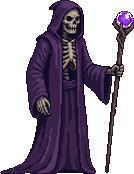
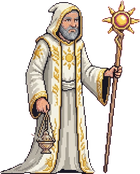
Priest replaces lich, calmer background music, towers and foundations recolored to castle stone
Claude-Session: https://claude.ai/code/session_01QcHRMwbfbXYPMxzwXNUobZ

diff --git a/src/audio.js b/src/audio.js
@@ -147,12 +147,12 @@ function flute(freq, dur, o = {}) {
   const t = at(o.when), vol = o.vol ?? 0.12;
   const osc = ac.createOscillator(), osc2 = ac.createOscillator(), g = ac.createGain(), g2 = ac.createGain();
   osc.type = 'sine'; osc.frequency.value = freq;
-  osc2.type = 'triangle'; osc2.frequency.value = freq * 2; g2.gain.value = 0.12;
+  osc2.type = 'sine'; osc2.frequency.value = freq * 2; g2.gain.value = 0.05;
   vibrato(osc, 9); vibrato(osc2, 9);
   env(g, t, vol, 0.07, dur, Math.min(0.25, dur * 0.4));
   osc.connect(g); osc2.connect(g2); g2.connect(g); g.connect(o.bus || sfxBus);
   osc.start(t); osc2.start(t); osc.stop(t + dur + 0.05); osc2.stop(t + dur + 0.05);
-  noise(Math.min(dur, 0.35), { freq: freq * 2, q: 6, vol: vol * 0.25, attack: 0.03, when: o.when, bus: o.bus || sfxBus });
+  noise(Math.min(dur, 0.35), { freq: freq * 2, q: 6, vol: vol * 0.12, attack: 0.03, when: o.when, bus: o.bus || sfxBus });
 }
 
 // медный рог: фильтр раскрывается на атаке, как у живого духового
@@ -210,7 +210,7 @@ const SFX = {
     noise(0.35, { filter: 'lowpass', freq: 420, vol: 0.45 });
     noise(0.06, { freq: 2600, q: 2, vol: 0.12, when: 0.01 });
   },
-  // тёмная магия лича: гул, вихрь и холодный отзвук
+  // луч жреца: гул, вихрь и отзвук
   zap() {
     for (const f of [110, 116.5]) thump(f * 1.5, f, 0.38, 0.08);
     noise(0.34, { freq: 380, to: 2600, q: 5, vol: 0.12, attack: 0.04 });
@@ -305,8 +305,9 @@ export function sfx(name) {
 }
 
 // ---------- фоновая музыка ----------
-// Ре минор, размер 3/4: арфа перебирает аккорды, струнные держат гармонию, флейта ведёт мелодию.
-// Во время волны вступают барабаны и рог, на боссе — тяжёлая дробь и низкие струнные.
+// Спокойная тема в ре миноре, 4/4, медленно: низкие струнные держат аккорд, арфа роняет пару нот за такт,
+// мягкая флейта в низком регистре изредка ведёт мелодию. Без высоких нот и частого перебора.
+// Во время волны добавляется только приглушённый барабан, на боссе он тяжелее, а струнные ниже.
 // mood: 'calm' | 'battle' | 'boss' | 'off'
 let mood = 'calm';
 export function setMusicMood(m) { mood = m; }
@@ -321,68 +322,51 @@ const BARS = [ // бас, аккорд
   [41, [41, 45, 48]], // F
   [33, [45, 49, 52]], // A
 ];
-// мелодия флейты: [восьмая в такте, нота, длина в восьмых]
+// мелодия флейты: [четверть в такте, нота, длина в четвертях] — по 1–2 долгие ноты на такт
 const MELODY = [
-  [[0, 74, 3], [3, 77, 2], [5, 76, 1]],
-  [[0, 72, 3], [3, 76, 2], [5, 74, 1]],
-  [[0, 70, 2], [2, 74, 2], [4, 77, 2]],
-  [[0, 76, 4], [4, 73, 2]],
-  [[0, 74, 2], [2, 77, 2], [4, 81, 2]],
-  [[0, 79, 3], [3, 77, 2], [5, 74, 1]],
-  [[0, 72, 2], [2, 77, 2], [4, 76, 2]],
-  [[0, 76, 2], [2, 73, 2], [4, 69, 2]],
+  [[0, 62, 2], [2, 65, 2]],
+  [[0, 64, 3], [3, 62, 1]],
+  [[0, 62, 2], [2, 58, 2]],
+  [[0, 61, 4]],
+  [[0, 65, 2], [2, 69, 2]],
+  [[0, 67, 3], [3, 65, 1]],
+  [[0, 64, 2], [2, 60, 2]],
+  [[0, 61, 2], [2, 57, 2]],
 ];
-const ARP = [0, 1, 2, 3, 2, 1];
-const STEP = 60 / 92 / 2; // восьмые при 92 ударах в минуту
+const BEAT = 60 / 66; // четверти при 66 ударах в минуту
 let nextTime = 0, step = 0;
 
 function startMusic() {
   nextTime = ac.currentTime + 0.3;
   setInterval(() => {
     if (ac.state !== 'running') { nextTime = ac.currentTime + 0.1; return; }
-    while (nextTime < ac.currentTime + 0.3) { scheduleStep(step, nextTime); nextTime += STEP; step++; }
-  }, 60);
+    while (nextTime < ac.currentTime + 0.4) { scheduleStep(step, nextTime); nextTime += BEAT; step++; }
+  }, 80);
 }
 
 function scheduleStep(n, t) {
   if (mood === 'off' || muted) return;
-  const when = t - ac.currentTime;
-  const barN = Math.floor(n / 6), s = n % 6, loop = Math.floor(barN / BARS.length);
+  const when = t - ac.currentTime, bus = musicBus;
+  const barN = Math.floor(n / 4), s = n % 4, loop = Math.floor(barN / BARS.length);
   const bar = barN % BARS.length;
   const [bass, chord] = BARS[bar];
-  const bus = musicBus, fight = mood !== 'calm', boss = mood === 'boss';
-  const barLen = STEP * 6;
+  const fight = mood !== 'calm', boss = mood === 'boss';
 
   if (s === 0) {
-    // струнные держат аккорд весь такт; на боссе — на октаву ниже и темнее
     const sh = boss ? -12 : 0;
-    strings(chord.map(m => midi(m + sh)), barLen + 0.5, { vol: boss ? 0.07 : 0.055, attack: 0.5, release: 0.6, when, bus, lp: boss ? 800 : 1200 });
-    pluck(midi(bass), { dur: 2.2, vol: 0.45, soft: 0.6, lp: 900, when, bus });
+    strings(chord.map(m => midi(m + sh)), BEAT * 4 + 0.8, { vol: 0.05, attack: 1.2, release: 1, when, bus, lp: boss ? 600 : 800 });
+    pluck(midi(bass), { dur: 3, vol: 0.32, soft: 0.75, lp: 600, when, bus });
   }
-  // арфа
-  const tones = [chord[0] + 12, chord[1] + 12, chord[2] + 12, chord[0] + 24];
-  pluck(midi(tones[ARP[s]]), { dur: 1.8, vol: s === 0 ? 0.22 : 0.15, when, bus });
-  if (fight && s === 3) pluck(midi(bass + 12), { dur: 1, vol: 0.25, soft: 0.6, lp: 1200, when, bus });
+  // арфа: две тихие ноты за такт, средний регистр
+  if (s === 0) pluck(midi(chord[0] + 12), { dur: 2.5, vol: 0.1, soft: 0.7, lp: 1800, when, bus });
+  if (s === 2) pluck(midi(chord[2]), { dur: 2.5, vol: 0.09, soft: 0.7, lp: 1800, when, bus });
 
-  // мелодия: в покое — через круг, в бою — каждый круг
-  if (fight || loop % 2 === 1) {
-    for (const [st, m, len] of MELODY[bar]) if (st === s) flute(midi(m), len * STEP * 0.95, { vol: 0.1, when, bus });
+  // мелодия звучит через круг, чтобы не надоедала
+  if (loop % 2 === 1) {
+    for (const [st, m, len] of MELODY[bar]) if (st === s) flute(midi(m), len * BEAT * 0.95, { vol: 0.06, when, bus });
   }
 
-  // барабаны
-  if (!fight) { if (s === 0) drum(0.18, { when, bus }); }
-  else if (!boss) {
-    if (s === 0) drum(0.42, { when, bus });
-    if (s === 3) drum(0.3, { when, bus });
-    if (s === 4 || s === 5) drum(0.16, { when, bus, pitch: 1.3 });
-  } else {
-    if (s === 0) drum(0.6, { when, bus, pitch: 0.75 });
-    if (s === 2 || s === 3) drum(0.36, { when, bus, pitch: 0.85 });
-    if (s === 4 || s === 5) drum(0.24, { when, bus, pitch: 1.2 });
-  }
-  // военный рог в конце каждой фразы
-  if (fight && s === 0 && (bar === 3 || bar === 7)) {
-    horn(midi(bass + 12), barLen * 0.9, { vol: boss ? 0.09 : 0.07, when, bus, bright: boss ? 900 : 1300 });
-    horn(midi(bass + 19), barLen * 0.9, { vol: 0.05, when, bus, bright: 1300 });
-  }
+  // приглушённый барабан только в бою
+  if (fight && s === 0) drum(boss ? 0.32 : 0.2, { when, bus, pitch: boss ? 0.7 : 0.85 });
+  if (boss && s === 2) drum(0.18, { when, bus, pitch: 0.75 });
 }

diff --git a/src/game.js b/src/game.js
@@ -206,7 +206,7 @@ export class Game {
     if (show) {
       e.flash = 0.08;
       if (amt >= 1) this.fx.number(e.x + (Math.random() * 6 - 3), this.aimY(e) - e.h * 0.6, amt,
-        type === 'fire' ? '#f3c843' : type === 'magic' ? '#d6a4ff' : '#ffffff');
+        type === 'fire' ? '#f3c843' : type === 'magic' ? '#ffe08a' : '#ffffff');
     }
     if (e.hp <= 0) {
       e.alive = false;
@@ -266,7 +266,8 @@ export class Game {
       this.projectiles.push({ kind: 'rock', sx: ox, sy: oy - 4, tx: lead.x, ty: lead.y - 3, t: 0, dur: 0.6, dmg: s.dmg, splash: s.splash, stun: s.stun });
     } else if (t.unit === 'lich') {
       this.sfx('zap');
-      this.fx.beam(t.x + t.face * 6, t.y - TOWER_TOP - 25, target.x, ty);
+      const ps = size('lich'); // луч света бьёт из сферы на навершии посоха
+      this.fx.beam(t.x + t.face * ps.w * 0.375, t.y - TOWER_TOP - ps.h * 0.9, target.x, ty);
       this.damage(target, s.dmg, 'magic');
       target.dotT = s.dot; target.dotDps = s.dps;
       target.slowT = s.slowTime; target.slowK = s.slow;
@@ -402,12 +403,12 @@ export class Game {
       ctx.fillStyle = '#8a8478'; ctx.beginPath(); ctx.arc(rx, by, 3.4, 0, Math.PI * 2); ctx.fill();
       ctx.fillStyle = '#b0aa9c'; ctx.fillRect(rx - 2, by - 2, 2, 1.5);
     }
-    if (t.unit === 'lich') { // свечение навершия посоха
+    if (t.unit === 'lich') { // свечение солнечной сферы на посохе жреца
       const glow = 0.35 + 0.25 * Math.sin(this.time * 4 + t.i) + atk * 0.6;
       ctx.save(); ctx.globalCompositeOperation = 'lighter'; ctx.globalAlpha = Math.min(1, glow);
-      const gx = t.x + t.face * w * 0.33, gy = ry - h * 0.95;
+      const gx = t.x + t.face * w * 0.375, gy = ry - h * 0.9;
       const g = ctx.createRadialGradient(gx, gy, 0, gx, gy, 3 + atk * 4);
-      g.addColorStop(0, 'rgba(236,214,255,1)'); g.addColorStop(1, 'rgba(160,90,230,0)');
+      g.addColorStop(0, 'rgba(255,246,208,1)'); g.addColorStop(1, 'rgba(255,190,60,0)');
       ctx.fillStyle = g; ctx.beginPath(); ctx.arc(gx, gy, 3 + atk * 4, 0, Math.PI * 2); ctx.fill();
       ctx.restore();
     }
@@ -430,7 +431,7 @@ export class Game {
     const { w, h } = drawRig(ctx, e.type, e.x, e.y + 2 - lift, o, rig.parts);
     const top = e.y + 2 - lift - h + (o.dy || 0);
     if (e.slowT > 0 || this.slowT > 0) { ctx.fillStyle = 'rgba(127,214,255,0.9)'; ctx.fillRect(e.x - w / 2, e.y, w, 1); }
-    if (e.dotT > 0 && Math.random() < 0.15) this.fx.parts.push({ x: e.x + Math.random() * 8 - 4, y: top + h * 0.3, vx: 0, vy: -12, life: 0.4, max: 0.4, c: '#c58cff', g: 0, s: 1 });
+    if (e.dotT > 0 && Math.random() < 0.15) this.fx.parts.push({ x: e.x + Math.random() * 8 - 4, y: top + h * 0.3, vx: 0, vy: -12, life: 0.4, max: 0.4, c: '#ffd86a', g: 0, s: 1 });
     if (e.stunT > 0) { const a = this.time * 8; ctx.fillStyle = '#f3c843'; ctx.fillRect(e.x + Math.cos(a) * 5, top - 2, 1.5, 1.5); ctx.fillRect(e.x - Math.cos(a) * 5, top - 2, 1.5, 1.5); }
     if (e.hp < e.max || e.def.boss) {
       const bw = e.def.boss ? 26 : 13, bx = Math.round(e.x - bw / 2), by = Math.round(top - 4);

diff --git a/src/anim.js b/src/anim.js
@@ -50,10 +50,10 @@ export function unitRig(unit, t, atk, windup, seed) {
         { r: [0, 0.6, 1, 1] },
         { r: [0, 0, 1, 0.65], dy: breath * 0.45 },
       ] };
-    case 'lich':
-      return { o: { dy: -2 - Math.sin(t * 2 + seed) * 1.4 }, parts: [
-        { r: [0, 0.74, 1, 1], dx: Math.sin(t * 3 + seed) * 0.7 }, // край мантии колышется
-        { r: [0, 0, 1, 0.78], dy: breath * 0.3 },
+    case 'lich': // жрец стоит на площадке и спокойно дышит
+      return { o: {}, parts: [
+        { r: [0, 0.6, 1, 1] },
+        { r: [0, 0, 1, 0.62], dy: breath * 0.3 },
       ] };
     case 'dragon': {
       const flap = 0.5 + 0.5 * Math.sin(t * 5 + seed);

diff --git a/src/fx.js b/src/fx.js
@@ -75,10 +75,10 @@ export class FX {
     for (const b of this.beams) {
       const a = b.life / 0.18;
       ctx.globalAlpha = a;
-      line(ctx, b.x1, b.y1, b.x2, b.y2, '#4a2270', 3);
-      line(ctx, b.x1, b.y1, b.x2, b.y2, '#c58cff', 1);
+      line(ctx, b.x1, b.y1, b.x2, b.y2, '#8a5a12', 3);
+      line(ctx, b.x1, b.y1, b.x2, b.y2, '#ffe08a', 1);
       ctx.globalAlpha = 1;
-      ctx.fillStyle = '#ecd6ff'; ctx.fillRect(Math.round(b.x2) - 1, Math.round(b.y2) - 1, 3, 3);
+      ctx.fillStyle = '#fff6d0'; ctx.fillRect(Math.round(b.x2) - 1, Math.round(b.y2) - 1, 3, 3);
     }
     for (const p of this.parts) {
       if (p.fire) continue;

diff --git a/src/config.js b/src/config.js
@@ -38,7 +38,7 @@ export const UNITS = {
     ],
   },
   lich: {
-    name: 'Лич', desc: 'Тёмный луч: порча и замедление',
+    name: 'Жрец', desc: 'Луч света: жжёт и замедляет',
     cost: 80, type: 'magic', proj: 'beam', air: true,
     dot: 3, slow: 0.55, slowTime: 1.6,
     levels: [

diff --git a/CLAUDE.md b/CLAUDE.md
@@ -4,7 +4,7 @@
 
 ## Что это
 Демо на ~2 минуты: каменные башни стоят на 7 местах вдоль дороги, игрок сажает на них защитников
-(лучник, циклоп, лич, дракон). 6 волн врагов, в каждой один вид, идут колонной:
+(лучник, циклоп, жрец, дракон; в коде жрец по-прежнему под ключом `lich`). 6 волн врагов, в каждой один вид, идут колонной:
 скелеты, гоблины, волчьи всадники, гаргульи (летают, циклоп не достаёт), орки-латники, тролль-вождь (босс).
 Заклинания героя на мане: Метеор, Мороз, Ускорение. Звук и музыка в стиле фэнтези-RPG синтезируются в браузере
 (арфа, струнные, флейта, рог, барабаны, колокола, эхо зала; никакого «приставочного» чиптюна — владелец просил).
@@ -27,15 +27,18 @@
 - `src/game.js` — цикл, волны, бой, снаряды, отрисовка. `src/fx.js` — частицы, пиксельный огонь, цифры урона.
 - `src/ui.js` — интерфейс, ввод, экраны, автоигра для проверки (`?autoplay&speed=8`, `&nobuild`).
 - `src/audio.js` — звуки и музыка (Web Audio), кнопка «Звук», выбор хранится в localStorage.
-  Музыка: ре минор, 3/4; `setMusicMood` из `ui.js` переключает слои: calm (между волнами), battle (барабаны, рог), boss, off.
+  Фоновая музыка: спокойная, ре минор, 4/4, 66 bpm, низкий регистр, мало нот (владелец просил не резко и не надоедливо).
+  `setMusicMood` из `ui.js`: calm, battle (тихий барабан), boss, off. Остальные звуки владелец одобрил — не трогать.
 
 ## Графика
 Картинки делает владелец в Gemini/ChatGPT на сплошном фоне #FF00FF, по одной на запрос.
 Нарезка: скрипт удаляет розовый фон, берёт крупные компоненты, обрезает и сохраняет `assets/<name>.png`
 высотой «игровая высота × 3». Игровые высоты (до ZOOM): лучник 54, циклоп 60, лич 58, дракон 62,
 скелет 41, гоблин 37, волк 44, гаргулья 42, орк 48, тролль 72, башня 118.
-Новые версии уже стоят: лич, дракон, скелет, гоблин, волчий всадник, фон.
+Новые версии уже стоят: жрец (`assets/lich.png`, белый с золотым посохом), дракон, скелет, гоблин, волчий всадник, фон.
 Ждём новые: гаргулья, орк, тролль, лучник, циклоп, башня (сейчас стоят старые, мельче).
+Башня (`tower.png`) и фундаменты на фоне перекрашены под холодный серый камень замка (подгонка гистограммы яркости
+по башням замка); новую башню надо так же подогнать, иначе снова будет теплее замка.
 Если поменяется поза лича или дракона — поправить точки выстрела в `game.js` (beam; пасть дракона — `mx/my` в ветке dragon).
 Если у нового циклопа валун в руках — убрать дорисованный валун (`cyclopsHasBoulder`).
 
